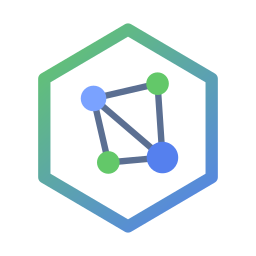
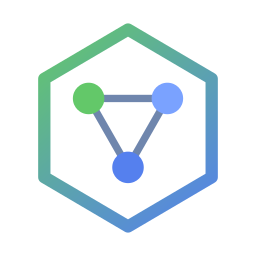
Use the 3-node triangle Controller mark (the one you liked)
Simplify the Controller mark to the clean three-node triangle from the brand
family — replacing the busier 4-node version — in the launcher icon set (SVG +
hicolor + pixmap) and the download website's Controller mark, so they match.

Claude-Session: https://claude.ai/code/session_01Rykm1PRspyG3mLbsfLyocH

Changed region(s): [[0.2812, 0.2812, 0.7188, 0.7188]]

diff --git a/website/index.html b/website/index.html
@@ -356,11 +356,10 @@ install-sysible-controller</pre>
     <!-- Controller mark: hexagon + linked nodes (fleet) -->
     <g id="mark-ctrl">
       <path d="M0,-20 L17,-10 L17,10 L0,20 L-17,10 L-17,-10 Z" fill="none" stroke="url(#sg)" stroke-width="2.5" stroke-linejoin="round"/>
-      <path d="M-7,-6 L6,-9 M-7,-6 L-4,7 M-7,-6 L7,6 M6,-9 L7,6 M-4,7 L7,6" stroke="#5b6f92" stroke-width="1.1" fill="none"/>
-      <circle cx="-7" cy="-6" r="2.4" fill="#7aa2ff"/>
-      <circle cx="6" cy="-9" r="2.1" fill="#63c869"/>
-      <circle cx="-4" cy="7" r="2.1" fill="#63c869"/>
-      <circle cx="7" cy="6" r="3" fill="#5580ee"/>
+      <path d="M-8,-6 L8,-6 M-8,-6 L0,8 M8,-6 L0,8" stroke="#6f86ad" stroke-width="1.5" fill="none" stroke-linejoin="round"/>
+      <circle cx="-8" cy="-6" r="3.2" fill="#63c869"/>
+      <circle cx="8" cy="-6" r="3.2" fill="#7aa2ff"/>
+      <circle cx="0" cy="8" r="3.2" fill="#5580ee"/>
     </g>
   </defs>
 </svg>
